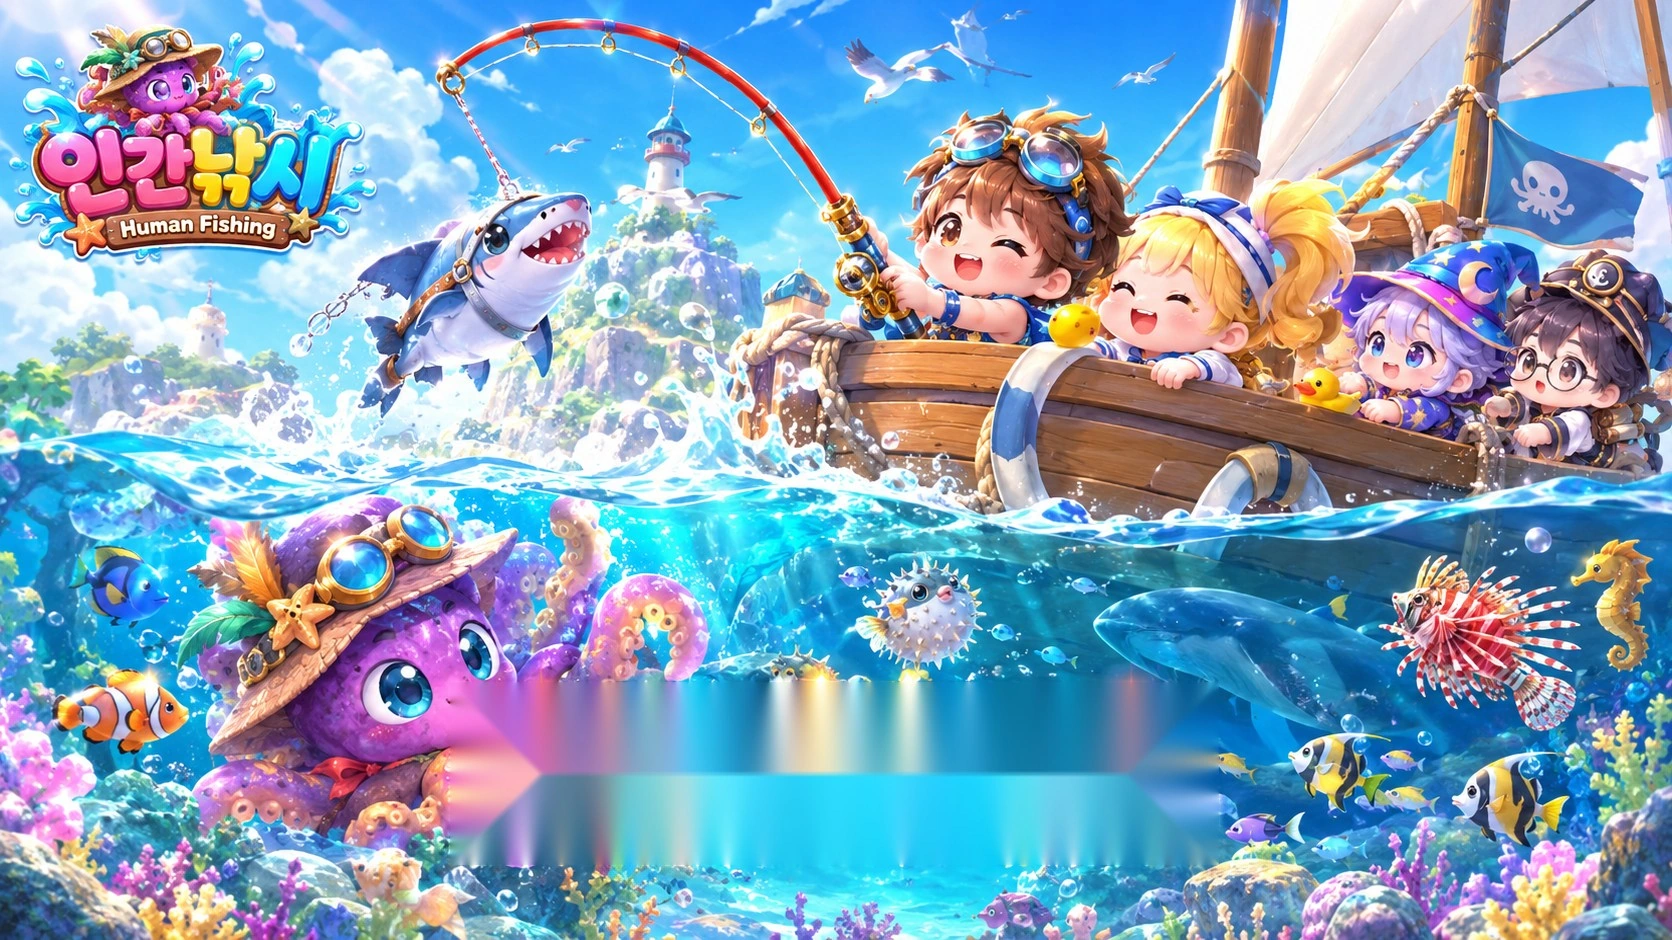
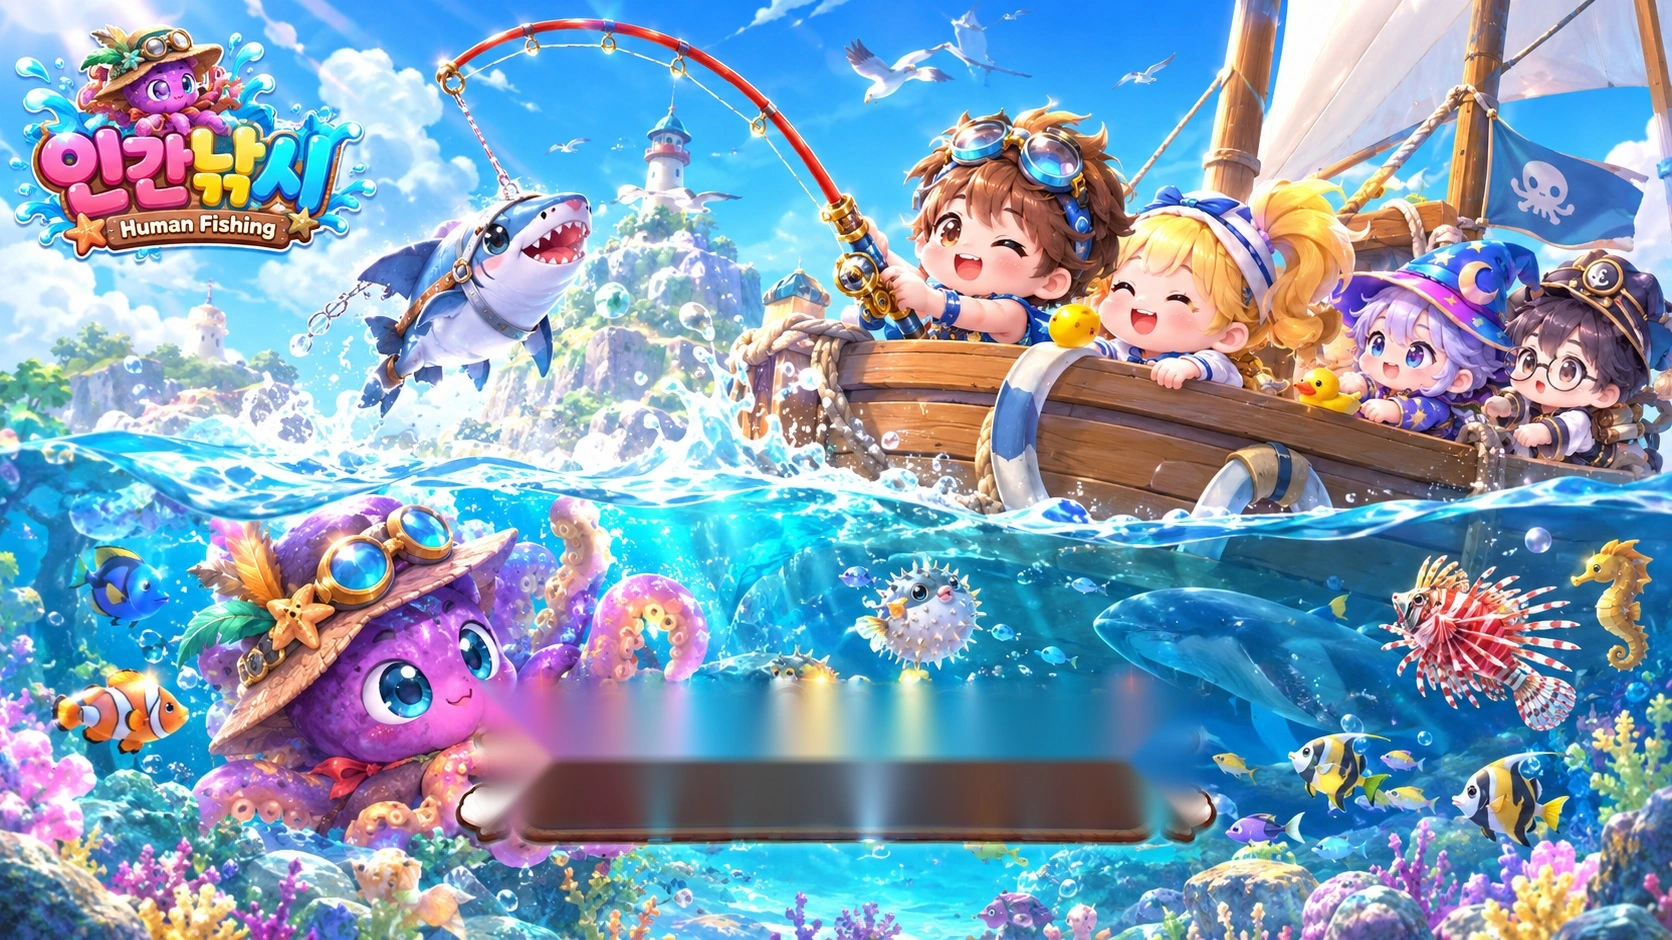
Human Fishing: shuffle-bag menu art without repeats, lazy bitmap loading and per-transition progress

Changed region(s): [[0.2488, 0.7096, 0.7464, 0.9255]]

diff --git a/human-fishing/boot.js b/human-fishing/boot.js
@@ -9,7 +9,7 @@
  var root=document.querySelector('.wrap'), overlay=document.getElementById('bootOverlay');
  var status=document.getElementById('bootStatus'), button=document.getElementById('bootStart');
  var progress=document.getElementById('bootProgress');
- var menuShownAt=0;
+ var menuShownAt=0,menuImageBaseline=null;
  function showLoading(){
   // A scene transition must never inherit the ready-to-start button artwork.
   overlay.classList.remove('title-ready');
@@ -21,9 +21,14 @@
   progress.value=0;
  }
  function updateImageProgress(active){
-  var total=active.length;
-  var downloaded=active.filter(function(im){return im.complete&&im.naturalWidth>0;}).length;
-  var decodedCount=active.filter(function(im){return im.complete&&im.naturalWidth>0&&decoded.get(im)===source(im);}).length;
+  // On a menu change, measure only new or replaced sources, not every
+  // already-decoded fish from past scenes. Startup still measures all assets.
+  var targets=started&&menuImageBaseline?active.filter(function(im){
+   return menuImageBaseline.get(im)!==source(im);
+  }):active;
+  var total=targets.length;
+  var downloaded=targets.filter(function(im){return im.complete&&im.naturalWidth>0;}).length;
+  var decodedCount=targets.filter(function(im){return im.complete&&im.naturalWidth>0&&decoded.get(im)===source(im);}).length;
   // Real image download+decode completion accounts for 90%; fonts/audio follow.
   var fraction=total?(downloaded+decodedCount)/(2*total):1;
   progress.value=Math.max(progress.value||0,Math.min(.90,.90*fraction));
@@ -191,17 +196,16 @@
    busy=false;
    // A brief viewing time lets each artwork register during fast cached menu
    // changes; unlike resource loading, the actual progress bar is not faked.
-   var hold=window.HumanFishingMenuLoading?Math.max(0,420-(Date.now()-menuShownAt)):0;
-   var reveal=function(){
+   var hold=window.HumanFishingMenuLoading?Math.max(0,550-(Date.now()-menuShownAt)):0;
+   setTimeout(function(){
     if(token!==generation||busy)return;
     requestAnimationFrame(function(){requestAnimationFrame(function(){
      if(token!==generation||busy)return;
      overlay.hidden=true;overlay.classList.remove('menu-loading');
+     menuImageBaseline=null;
      root.removeAttribute('aria-busy');
     });});
-   };
-   if(hold>0)setTimeout(reveal,hold);
-   else reveal();
+   },hold);
    return;
   }
   button.textContent='터치 · A / START로 시작';button.hidden=false;button.disabled=false;
@@ -216,6 +220,8 @@
   if(busy&&!depth)return;
   if(depth)return callback();
   busy=true;overlay.hidden=false;root.setAttribute('aria-busy','true');
+  menuImageBaseline=new WeakMap();
+  activeImages().forEach(function(im){menuImageBaseline.set(im,source(im));});
   showLoading();status.textContent='로딩 중 · 0%';
   menuShownAt=Date.now();
   if(window.HumanFishingMenuLoading)window.HumanFishingMenuLoading.next();

diff --git a/human-fishing/menu-loading.js b/human-fishing/menu-loading.js
@@ -20,12 +20,40 @@
   var image=new Image();image.decoding='async';image.src=root+name+version;
   return image;
  }
- var slides=backgrounds.map(load);
- var ui={label:load('menu_loading_label.webp'),
-         frame:load('menu_loading_frame.webp'),
-         fill:load('menu_loading_fill.webp')};
- var first=Math.floor(Math.random()*slides.length),selected=(first+slides.length-1)%slides.length;
- function next(){selected=(selected+1)%slides.length;return selected;}
+ // Load each background on demand. This prevents the five large paintings
+ // delaying the initial GAME START title. Only the selected scene participates
+ // in the next transition's real image/decode gate.
+ var slides=backgrounds.map(function(){return null}),ui=null;
+ var selected=-1,previous=-1,bag=[];
+ var uiPositions=[
+  {label:757,frame:853},
+  {label:742,frame:838},
+  {label:743,frame:849},
+  {label:725,frame:810},
+  {label:731,frame:838}
+ ];
+ function next(){
+  if(!bag.length){
+   bag=backgrounds.map(function(_,i){return i});
+   for(var i=bag.length-1;i>0;i--){
+    var j=Math.floor(Math.random()*(i+1)),tmp=bag[i];
+    bag[i]=bag[j];bag[j]=tmp;
+   }
+   // Also avoid one duplicate exactly at the end of a five-image round.
+   if(bag.length>1&&bag[bag.length-1]===previous){
+    var first=bag[0];bag[0]=bag[bag.length-1];
+    bag[bag.length-1]=first;
+   }
+  }
+  selected=bag.pop();previous=selected;
+  if(!slides[selected])slides[selected]=load(backgrounds[selected]);
+  if(!ui){
+   ui={label:load('menu_loading_label.webp'),
+       frame:load('menu_loading_frame.webp'),
+       fill:load('menu_loading_fill.webp')};
+  }
+  return selected;
+ }
  function ready(im){return !!(im&&im.complete&&im.naturalWidth>0);}
  function draw(t){
   requestAnimationFrame(draw);
@@ -34,14 +62,14 @@
   var slide=slides[selected<0?0:selected],fraction=Math.max(0,Math.min(1,Number(progress.value)||0));
   ctx.fillStyle='#06304d';ctx.fillRect(0,0,W,H);
   if(ready(slide))ctx.drawImage(slide,0,0,W,H);
-  if(ready(ui.label)){
-   ctx.drawImage(ui.label,(W-738)/2,707,738,97);
-  }
+  var positions=uiPositions[selected]||uiPositions[0];
+  if(ui&&ready(ui.label))
+   ctx.drawImage(ui.label,(W-738)/2,positions.label-97/2,738,97);
   // Gold frame and separate full-width watery fill; crop the fill image,
   // never stretch its width as loading progresses (fish remain undistorted).
-  var bx=(W-830)/2,by=794,bw=830,bh=103;
-  if(ready(ui.frame))ctx.drawImage(ui.frame,bx,by,bw,bh);
-  if(ready(ui.fill)&&fraction>0){
+  var bx=(W-830)/2,by=positions.frame-103/2,bw=830,bh=103;
+  if(ui&&ready(ui.frame))ctx.drawImage(ui.frame,bx,by,bw,bh);
+  if(ui&&ready(ui.fill)&&fraction>0){
    var fx=bx+34,fy=by+24,fw=bw-68,fh=bh-44;
    ctx.save();
    ctx.beginPath();ctx.rect(fx,fy,fw*fraction,fh);ctx.clip();
